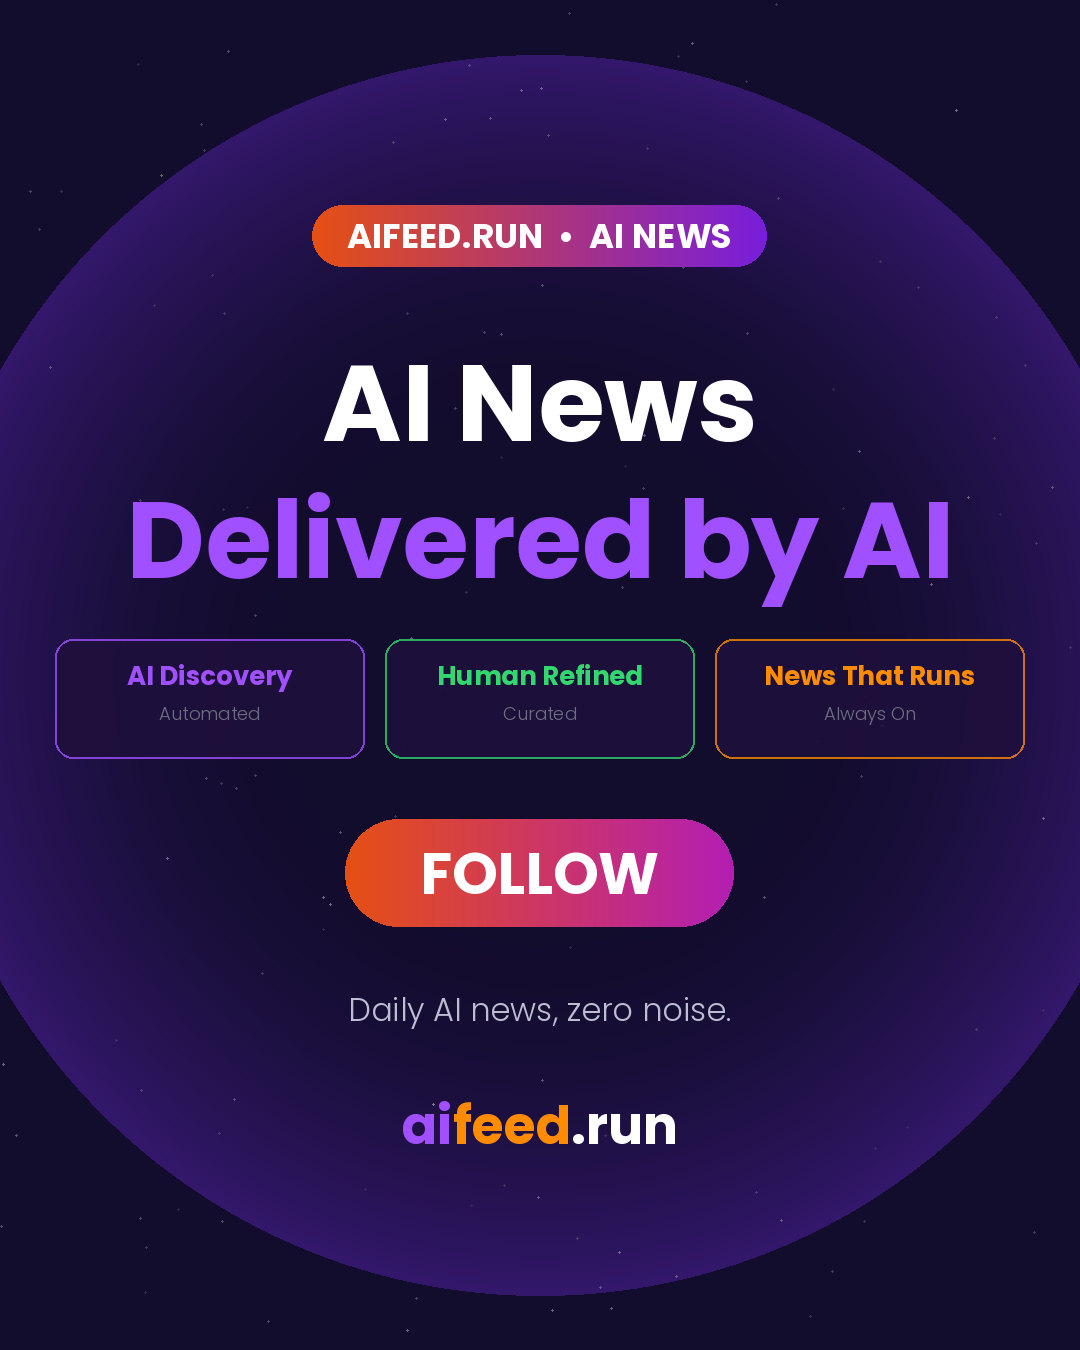
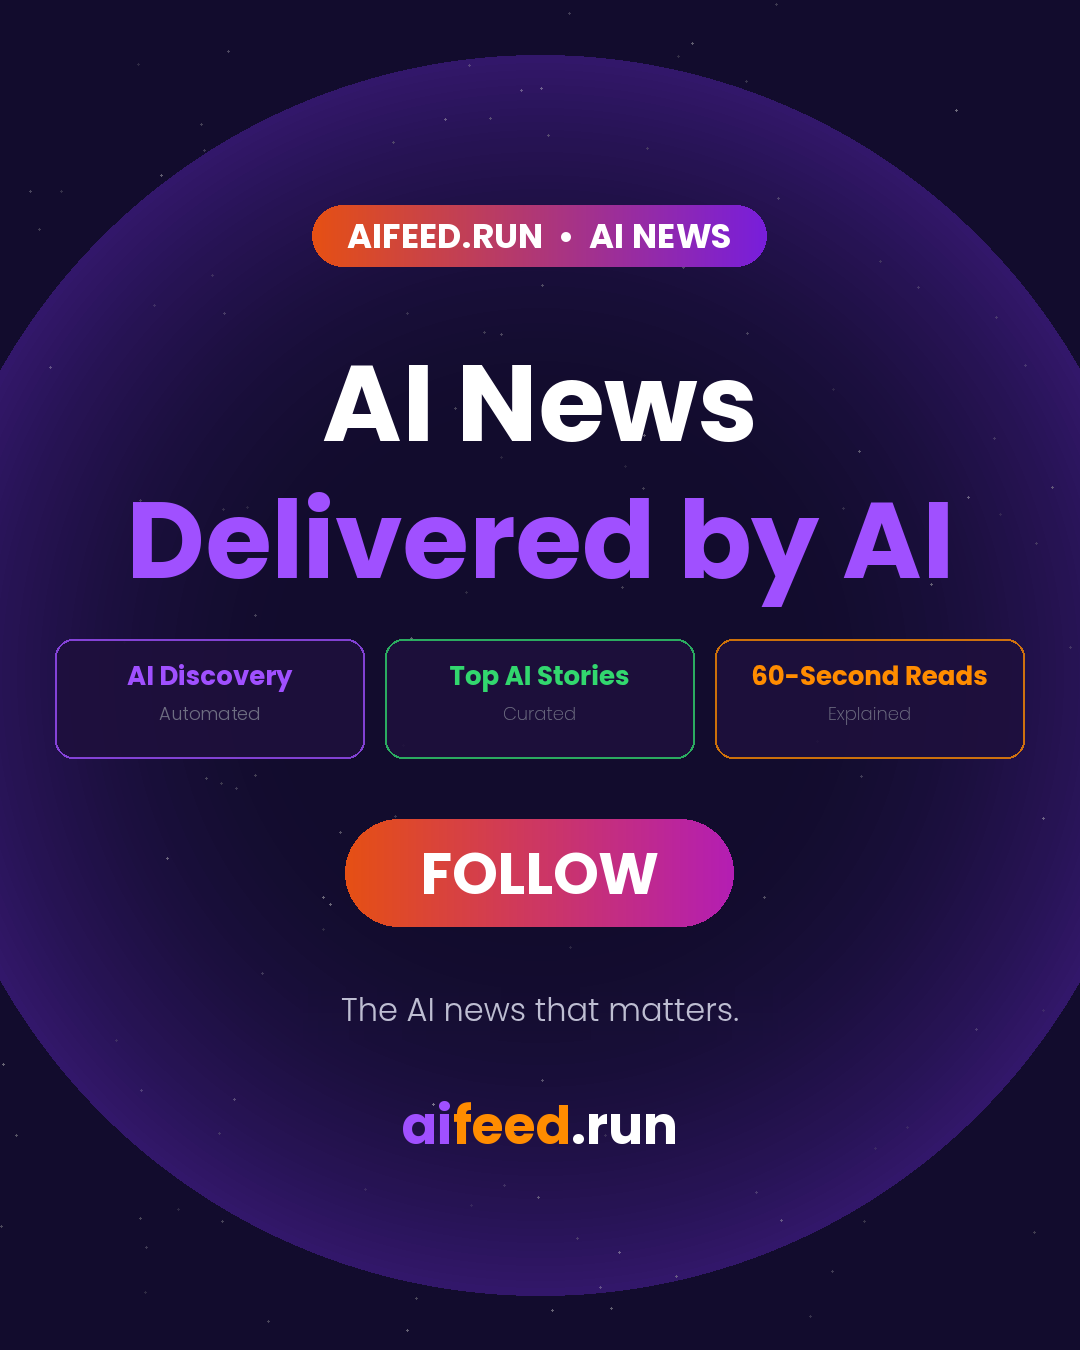
End card: brand copy standard (same file/URL; v1 kept as aifeed_endslide_v1.png)
Card 2 'Human Refined' -> 'Top AI Stories' (Curated), card 3 'News That Runs / Always On' -> '60-Second Reads / Explained',
tagline 'Daily AI news, zero noise.' -> 'The AI news that matters.' Everything else pixel-identical.

Changed region(s): [[0.3361, 0.7156, 0.6722, 0.7778], [0.7028, 0.4978, 0.9167, 0.5289], [0.3972, 0.4978, 0.6111, 0.5289]]

diff --git a/brand/endcard/build_endslide.py b/brand/endcard/build_endslide.py
@@ -1,0 +1,40 @@
+# Rebuilds images/aifeed_endslide.png from the v1 card: repaints only the outdated text areas
+# (card 2 + card 3 titles/subs, bottom tagline) and sets the new copy in the same font, size, color and position.
+import subprocess, sys
+import numpy as np
+from PIL import Image
+D = '/workspace/aifeed-endslide'
+v1 = np.array(Image.open(f'images/aifeed_endslide_v1.png').convert('RGB')).astype(float)
+out = v1.copy()
+def vfill(x0, x1, y0, y1):
+    # replace rows y0..y1 with a per-column linear blend of row y0-1 and row y1+1 (smooth background, no text)
+    top, bot = out[y0-1, x0:x1], out[y1+1, x0:x1]
+    for y in range(y0, y1+1):
+        t = (y - (y0-1)) / ((y1+1) - (y0-1))
+        out[y, x0:x1] = top*(1-t) + bot*t
+CARDS = {2: (387, 692), 3: (717, 1022)}           # interior x-range (borders at 385-386/693-694 and 715-716/1023-1024)
+for c, (a, b) in CARDS.items():
+    vfill(a+4, b-3, 656, 697)                      # title band
+    vfill(a+4, b-3, 701, 731)                      # sub band
+vfill(300, 781, 988, 1038)                         # tagline band
+NEW = [  # (text, weight, size, center x, baseline y, color)
+    ('Top AI Stories', 700, 26, 539.5, 685, (50, 215, 110)),
+    ('Curated',        200, 18, 539.5, 720, (110, 110, 130)),
+    ('60-Second Reads',700, 26, 869.5, 685, (255, 140, 0)),
+    ('Explained',      200, 18, 869.5, 720, (110, 110, 130)),
+    ('The AI news that matters.', 300, 32, 540, 1021, (190, 190, 210)),
+]
+for i, (t, w, s, cx, by, col) in enumerate(NEW):
+    svg = f'<svg xmlns="http://www.w3.org/2000/svg" width="1080" height="1350"><rect width="1080" height="1350" fill="#000"/><text x="{cx}" y="{by}" text-anchor="middle" font-family="Poppins" font-weight="{w}" font-size="{s}" fill="#fff">{t}</text></svg>'
+    html = ('<!doctype html><html><head><meta charset="utf-8"><link href="https://fonts.googleapis.com/css2?family=Poppins:wght@200;300;700&display=block" rel="stylesheet">'
+            '<style>*{margin:0}html,body{width:1080px;height:1350px;background:#000;overflow:hidden}svg{display:block}</style></head><body>' + svg + '</body></html>')
+    open('/tmp/index.html', 'w').write(html)
+    r = subprocess.run(['curl', '-s', '-o', f'/tmp/mask{i}.png', '-w', '%{http_code}', '-F', 'files=@/tmp/index.html;filename=index.html',
+                        '-F', 'width=1080', '-F', 'height=1350', '-F', 'waitDelay=1', 'http://127.0.0.1:3000/forms/chromium/screenshot/html'], capture_output=True, text=True)
+    assert r.stdout == '200', r.stdout
+    a = np.array(Image.open(f'/tmp/mask{i}.png').convert('L')).astype(float)[..., None] / 255
+    out = out*(1-a) + np.array(col, float)*a
+    ys, xs = np.where(a[..., 0] > .3); print(f'{t!r}: ink x {xs.min()}-{xs.max()} y {ys.min()}-{ys.max()}')
+Image.fromarray(np.clip(out+.5, 0, 255).astype('uint8')).save(f'images/aifeed_endslide.png', optimize=True)
+diff = np.abs(out - v1).max(-1) > 2
+ys, xs = np.where(diff); print('changed pixels', int(diff.sum()), 'bbox x', xs.min(), xs.max(), 'y', ys.min(), ys.max())
